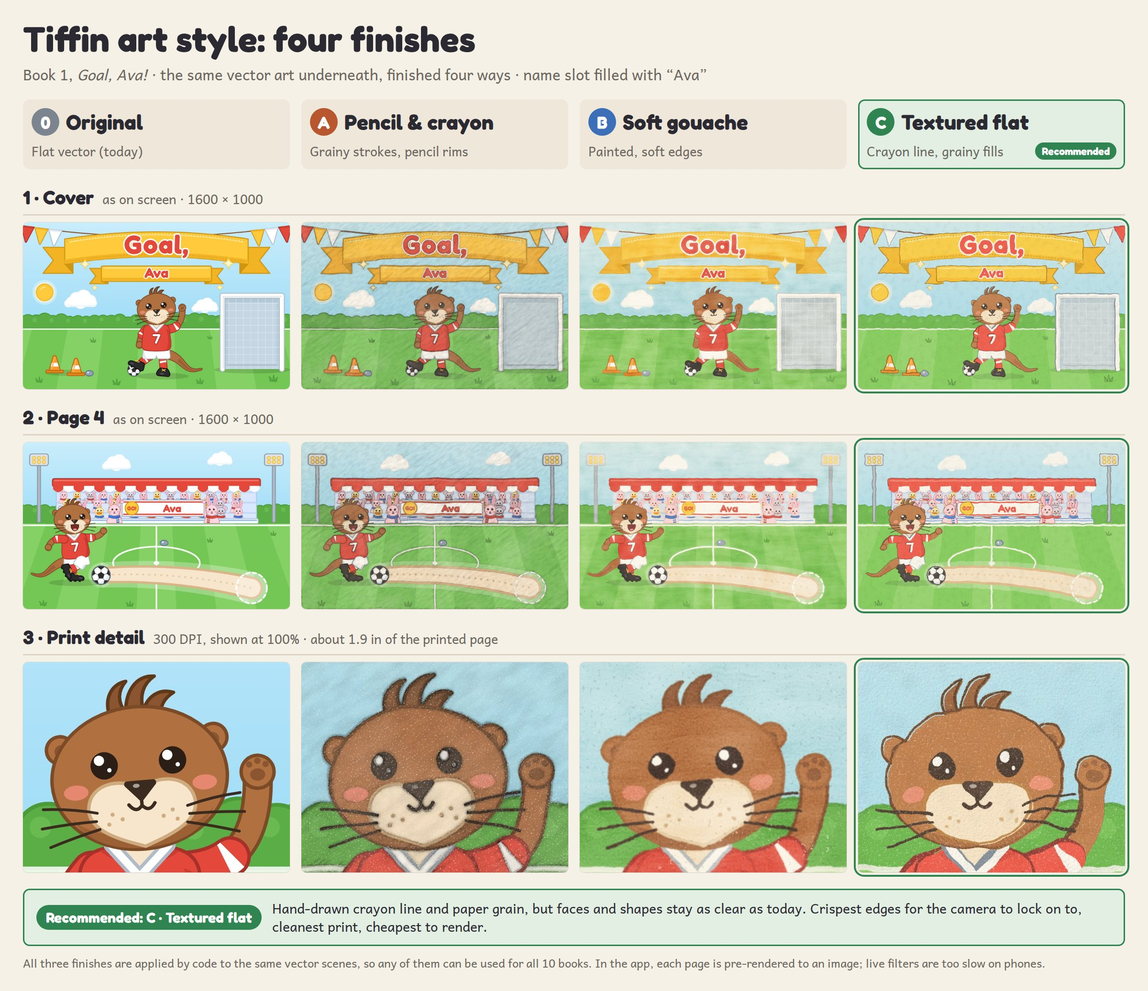
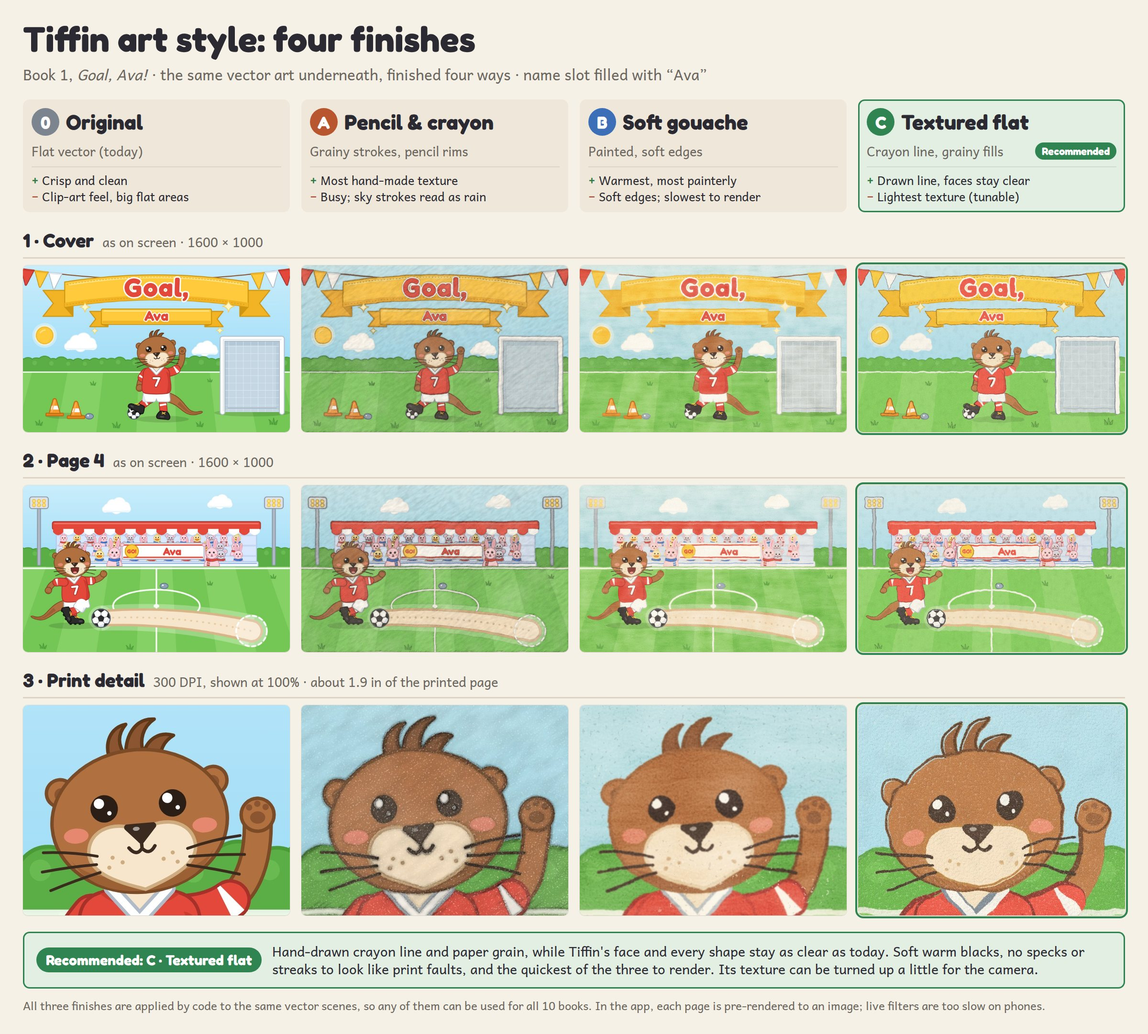
Add three hand-drawn style treatments with print-size samples and comparison
Pencil & crayon, soft gouache and textured flat finishes applied by code to
the same vector scenes, with render-cost and camera-tracking measurements.

Claude-Session: https://claude.ai/code/session_01H7ttQMD4nWahqTqEchqHSs

diff --git a/storybook/docs/style-samples/README.md b/storybook/docs/style-samples/README.md
@@ -1,0 +1,114 @@
+# Style samples: a hand-made finish for Tiffin
+
+These samples test three ways to give Book 1's flat vector art (*Goal, {name}!*) a soft, "almost drawn" finish. The vector scenes stay the source in every case. Each finish is code that wraps a scene, so the one we choose can be applied to all 10 books. None of them copies any illustrator or series. They all use generic techniques: grain, wobbly edges, crayon texture and paper.
+
+**Start here:**
+- `comparison.jpg` (2400 px wide) and `comparison-phone.jpg` (1080 px wide, stacked for a phone) put Original, A, B and C side by side.
+- Row 1 is the cover and row 2 is page 4, both as they appear on screen.
+- Row 3 is a close-up of Tiffin rendered for print at 300 DPI and shown at 100%.
+
+| Folder | What's in it |
+|---|---|
+| `original/` | The untreated art, for reference. Cover and page 4 at 1600 × 1000, plus 300 DPI print crops of the same area as the treatment crops. |
+| `pencil/` | A: Pencil & crayon. The treatment, a batch baker (`bake.mjs`), samples and the artist's README. |
+| `gouache/` | B: Soft gouache. The treatment, samples and README. |
+| `textured-flat/` | C: Textured flat. The treatment, samples and README. |
+
+## Measured side by side (page 4, one run, same machine)
+
+| | Original | A: Pencil | B: Gouache | C: Textured flat |
+|---|---|---|---|---|
+| First paint at 1600 × 1000 | ~0.2–0.7 s | 2.8 s | 7.4 s | 1.2 s |
+| One print page at 2550 px (8.5 in, 300 DPI) | 0.4 s | 10.5 s | 23 s | 8.0 s |
+| Flat, detail-free patches the camera sees (lower is better) | 38 % | 2.5 % | 17 % | 27 % (15 % tuned, see C) |
+| Strong corners the camera can lock on to (higher is better) | 6,900 | 9,400 | 6,300 | 8,500 |
+| Darkest tone (0 = black) | 16 (boots, eyes) | 4, in only ~30 pixels; otherwise warm charcoal | 47 | 45 |
+
+About these numbers:
+- **Setup:** headless Chromium with software rendering on 4 cores, with other jobs running in the background. The absolute times are high, so compare the columns rather than the values.
+- **Method:** renders took turns across the four finishes, three rounds each, and the table gives the median.
+- **Camera figures:** each page was scaled to a tracker-like 480 × 300 greyscale view. A patch counts as flat when a 12 px cell has almost no variation. These are stand-ins for a real tracker, so they still need confirming with the MindAR compiler on a printed proof.
+- **Live animation:** all three finishes are far too slow for the phone app if the filter runs live while something moves (about 1–6 fps for A and under 1 fps for B at full size, against 60 fps today). All three artists independently reached the same answer: bake each page's still art to an image and keep the moving parts and the child's name live on top. That also runs at 60 fps.
+
+## A: Pencil & crayon
+
+**What it is.** One SVG filter wraps the whole scene. It adds:
+- warm paper
+- freehand wobble on every edge
+- a grainy pencil rim in a darker shade of each colour
+- diagonal wax-crayon strokes that come and go in patches
+- uneven colouring and fine hatching
+- softened blacks
+
+**Strengths.**
+- At print size it is the most convincingly hand-coloured of the three.
+- It gives the camera by far the most to grip. Flat patches drop from 38 % to 2.5 %, and it has the most strong corners.
+
+**Risks.**
+- On screen and phone it looks busy. The strokes all run one way across the page, and in the sky they read as rain.
+- A fine white speckle sits over everything, including Tiffin's face, and it dulls her eyes. On KDP's inkjet print that speckle could look like dust or a print fault.
+- Tiny toddler-page details carry a lot of texture.
+
+**App cost.** It is the middle option: about 2.8 s to first paint and about 10 s per 300 DPI page. It must be baked for the app.
+
+## B: Soft gouache
+
+**What it is.** The treatment:
+- pulls outlines into their fill colours, so edges read as soft painted edges
+- gives each colour its own blotchy paint coverage, plus bristle streaks, paper grain and a few dry-brush flecks
+- turns whites into warm paper and blacks into soft ink
+- keeps the child's name crisp on top
+
+**Strengths.**
+- It is the warmest and most painterly look, and the closest to a premium painted picture book.
+- It is lovely at print size, and the night page (p8) is especially good.
+
+**Risks.**
+- Losing the outline softens every shape. It is the only finish with *fewer* strong corners than today's flat art (6,300 against 6,900), so it may be the weakest camera target even though it covers more flat area than C.
+- The white flecks carry the same dust risk as A.
+- The goal net stays a large pale area.
+- At phone size the grain turns into general softness.
+
+**App cost.** It is by far the heaviest: about 7.4 s to first paint and about 23 s per 300 DPI page, roughly 1.5 hours for 10 books of 24 pages. That time can be split across parallel renders. It must be baked for the app.
+
+## C: Textured flat
+
+**What it is.** The treatment:
+- turns every outline into a finer, darker, warm crayon line with a faint second pass
+- sets the colour slightly off-register from the line
+- redraws shading shapes as loose hatching
+- adds a page filter with gentle wobble, crayon texture that skips in the paper's tooth, fine grain, specks, embossed paper, warm whites and soft blacks
+
+**Strengths.**
+- Tiffin's face and every shape stay as readable as today, which matters most for 2–5-year-olds, yet the line looks hand-drawn.
+- The small colour offset is charming.
+- It has soft warm blacks (darkest tone 45) and no streaks or white flecks that could pass for print faults.
+- It is the fastest of the three: about 1.2 s to first paint and about 8 s per print page.
+- It already has a setting for phone-size baking (`pixelsPerUnit`) and a sprite mode for moving parts.
+
+**Risks.**
+- It has the lightest texture of the three. By default, flat patches only drop from 38 % to 27 %.
+- Up close it reads as good digital illustration with texture brushes rather than true pencil.
+- The sky looks slightly dusty.
+- Automatic hatching finds few shapes.
+- Its SVG is larger (209 KB on page 4).
+
+**Tested fix.** I tried stronger texture settings: `mottle: {freq: .02, amount: .05}` plus `crayon: {amount: .28, pressure: .85}`.
+- Flat patches fell from 27 % to 15 % on page 4, and from 22 % to 12 % on the cover.
+- Skies look more hand-coloured.
+- Going further (`amount: .07`) starts to look stained.
+
+## Recommendation
+
+**Use C (Textured flat) for the series, with the texture turned up as in the tested fix above.** It delivers the brief:
+- a soft, drawn crayon line, grainy colour, a little wobble and paper
+- and it protects what matters most across 10 books: faces a toddler can read, clean print, the lowest render cost, and good edges for the camera
+
+A has the best camera numbers but looks noisy and busy. B is the prettiest close up, but its lost outlines weaken tracking and it is about three times slower to bake.
+
+**Next steps**
+1. Set C's tuned settings as the series default.
+2. Bake one spread at 300 DPI and order a KDP proof copy. Check the grain, the warm paper tint (it prints as a very light ink tint) and the colours.
+3. Run the MindAR compiler on the baked pages to check tracking properly.
+4. Lighten page 8's night wall to a dusk blue in the scene itself. That area stays large and dark under every finish.
+5. In the app, show baked page images, with the moving parts and the name drawn live on top.
